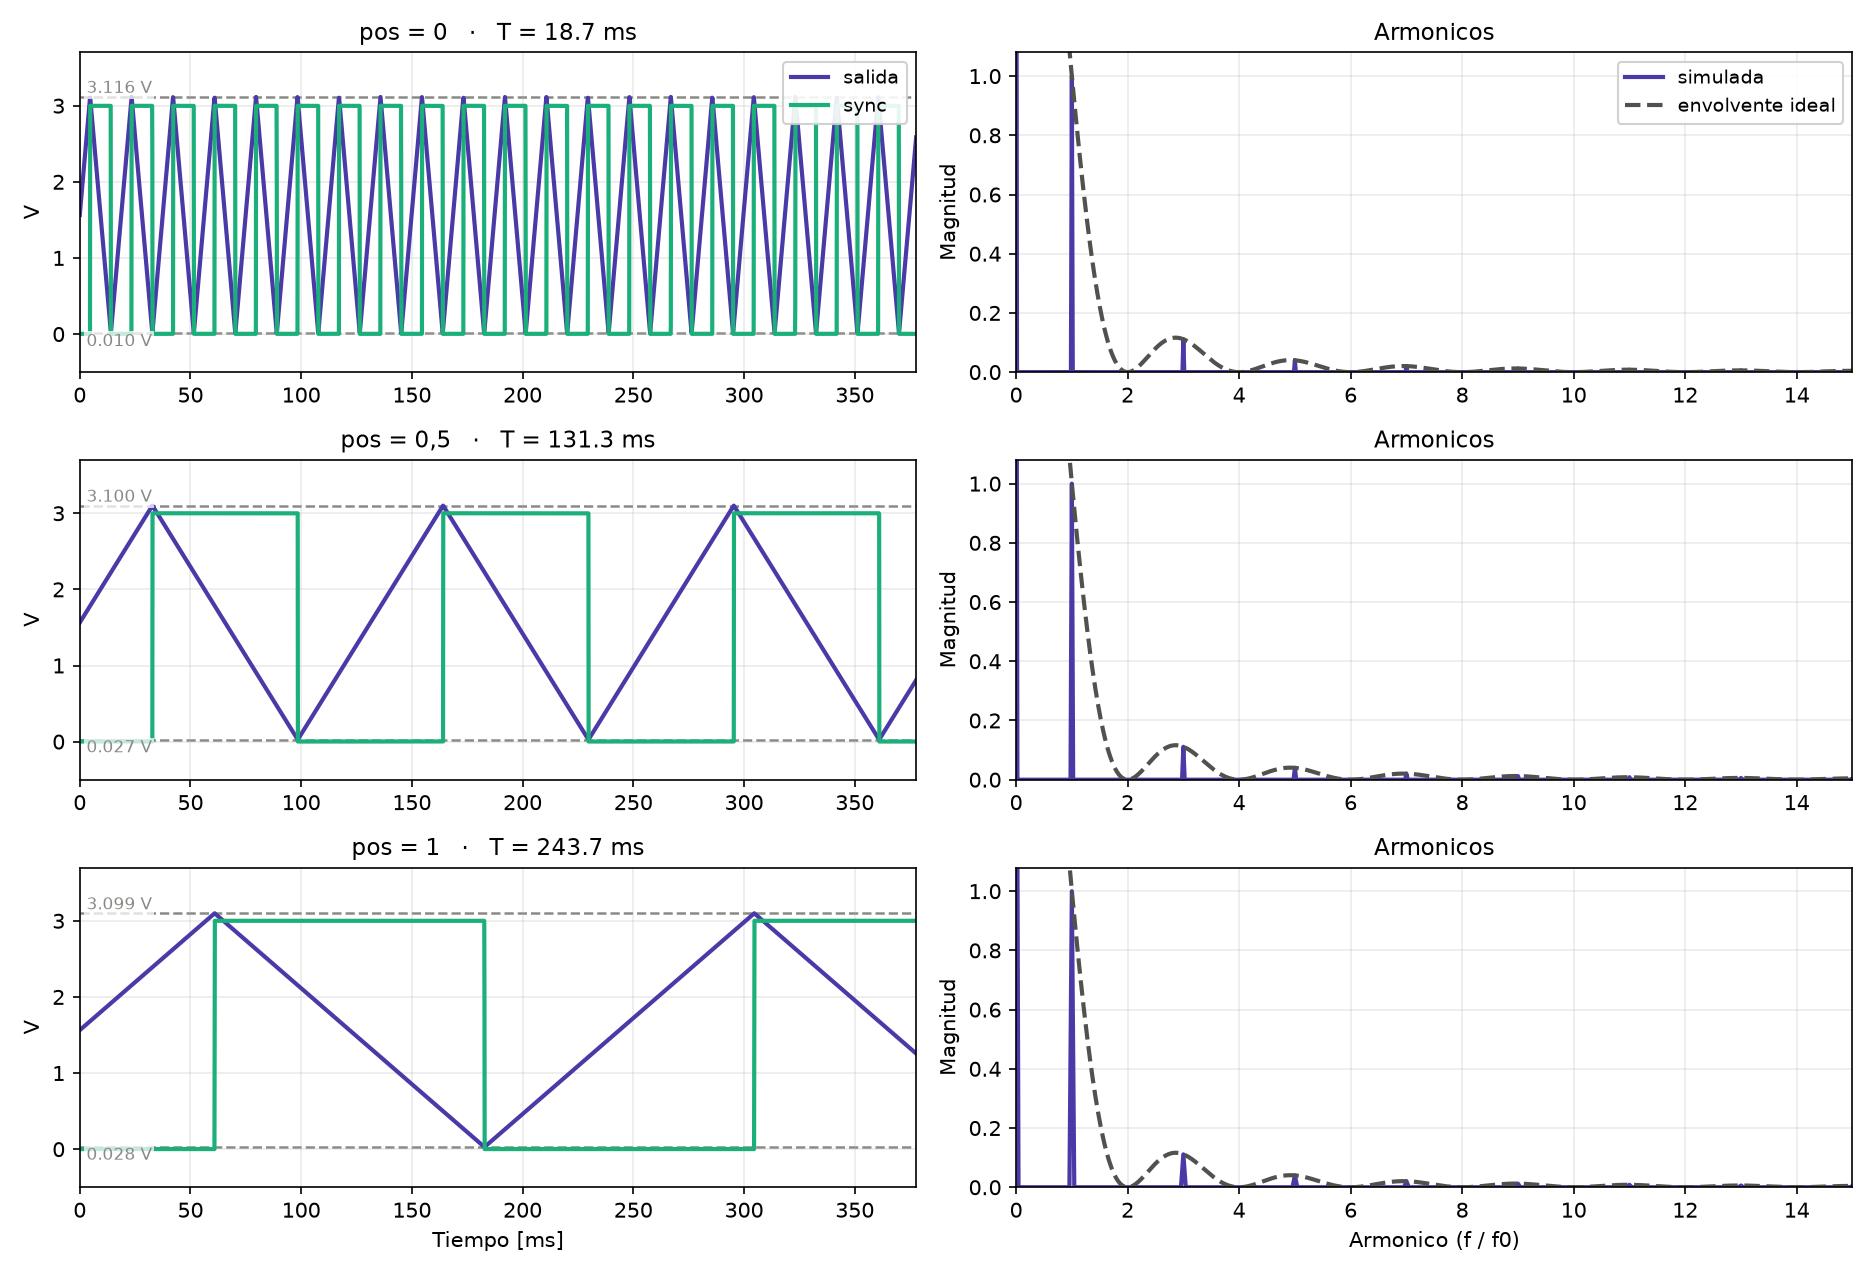
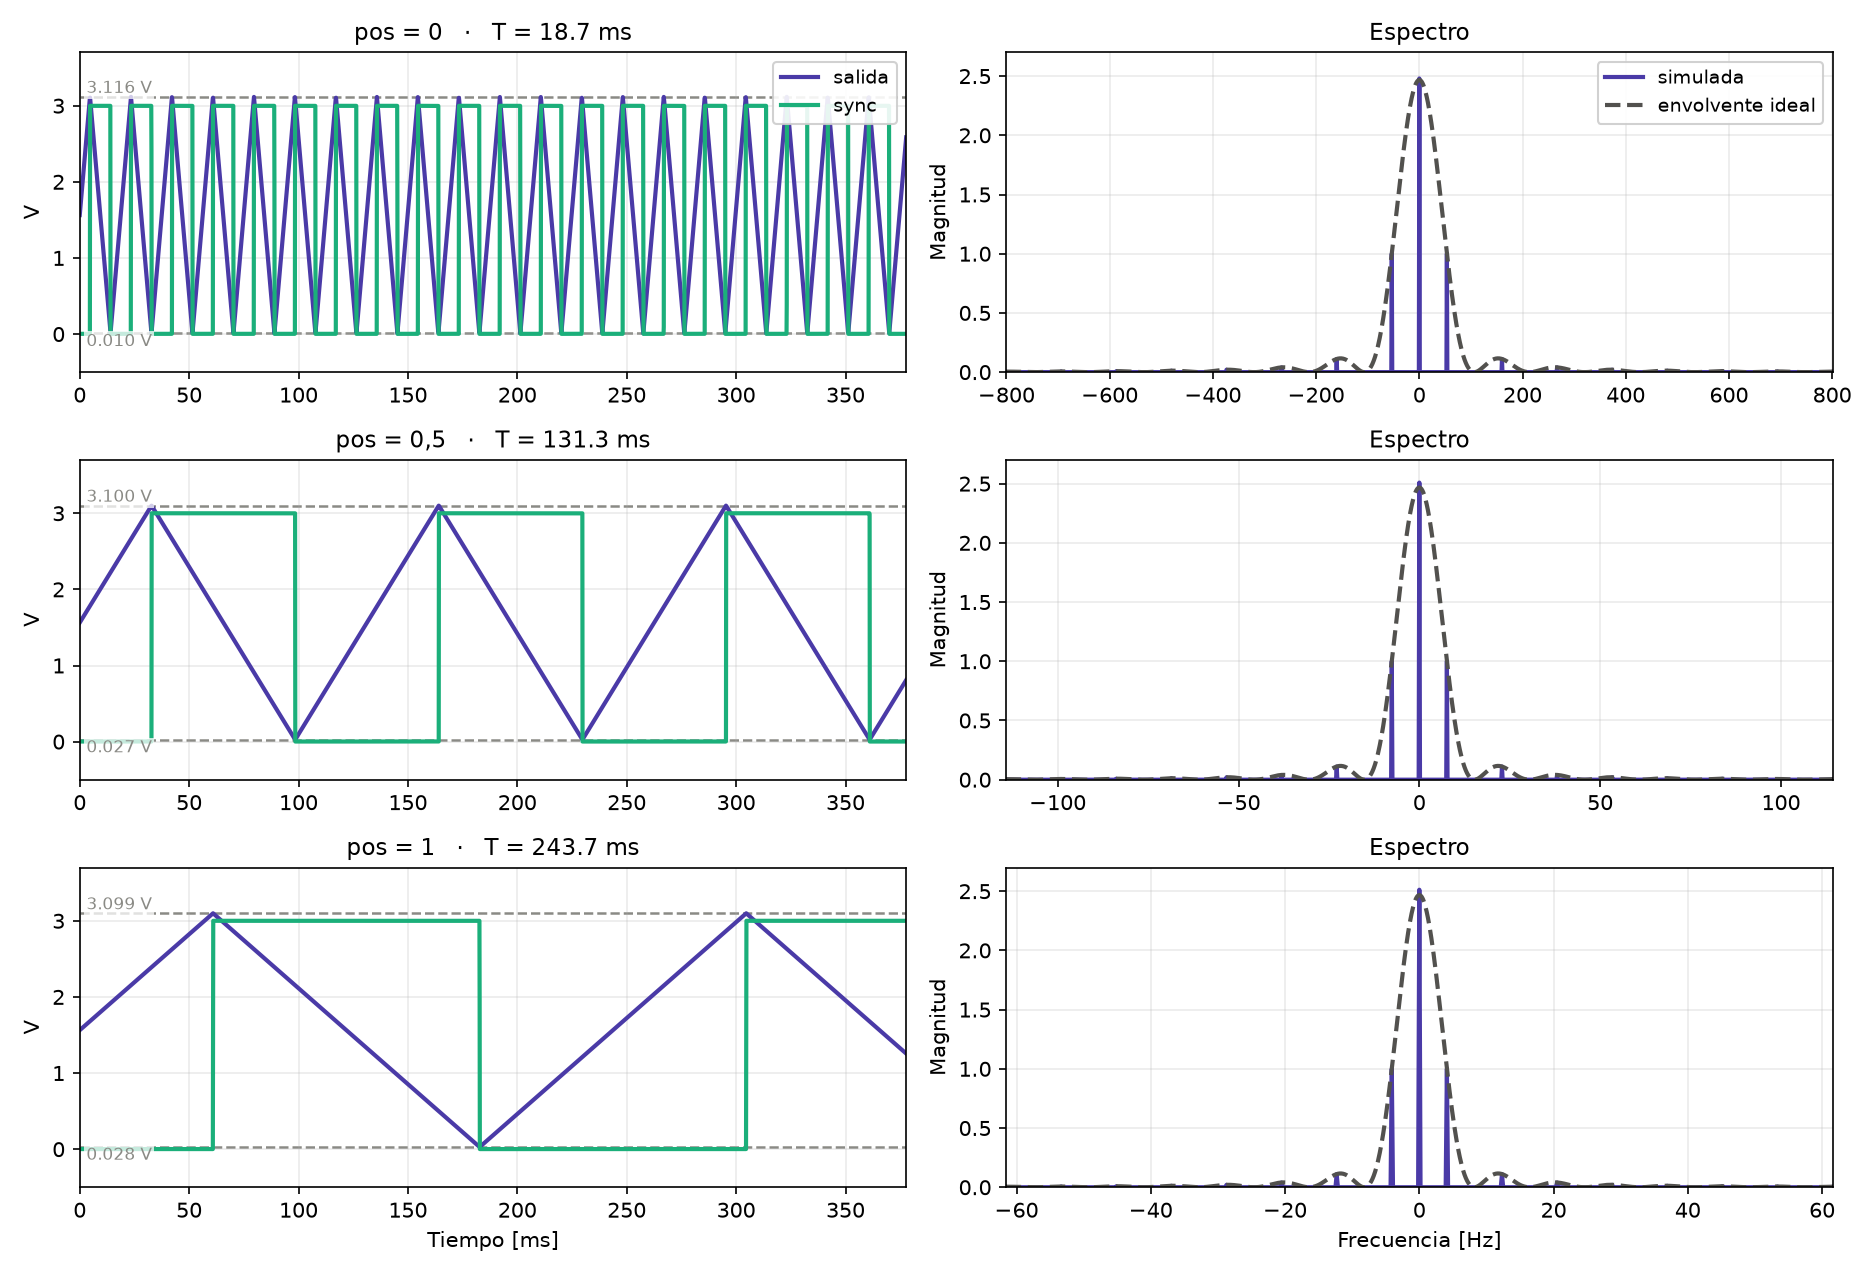
GPRv2: el espectro de la triangular, en hertz y de dos lados
El eje iba en armonicos de f0, que servia para comparar las tres filas
entre si pero obligaba a traducir mentalmente a frecuencia. Ahora va en
hertz y llega al armonico 15 de cada fila, asi que la escala cambia de
una fila a la otra (los periodos difieren 13 veces) pero los numeros son
los de verdad.

Y se dibuja de dos lados: la mitad negativa es la imagen de la positiva,
asi la continua queda como una sola delta en el cero, en el medio del
grafico, que es donde se la ve. Cada armonico ya valia A/2 en este lado,
que es lo que le toca a cada mitad del par, asi que no hay que reescalar
nada: la continua da 2,5 veces la fundamental y el tercer armonico 0,111,
igual que antes.

Ademas el titulo de la columna derecha pasa de "Armonicos" a "Espectro",
y los de la izquierda muestran el periodo en vez de la frecuencia.

diff --git a/GPRv2/docs/PWM/graficar_triangular2.py b/GPRv2/docs/PWM/graficar_triangular2.py
@@ -4,14 +4,15 @@ GPRv2 - Figura del generador de triangular (triangular2.asc)
 
 Lee triangular2.raw (el .step del pote, 5 posiciones) y arma una figura de
 3x2: una fila por posicion del pote (0, 0,5 y 1). A la izquierda la salida de
-0 a 3 V con el sync, en milisegundos; a la derecha su espectro (las rayas de
-los armonicos) contra la envolvente de una triangular ideal de la misma
-amplitud.
+0 a 3 V con el sync, en milisegundos; a la derecha su espectro de dos lados
+(las rayas de los armonicos, con la continua en el cero) contra la envolvente
+de una triangular ideal de la misma amplitud.
 
 La ventana de tiempo es la misma en las tres filas y sale del periodo mas
 largo, asi que en la fila mas lenta entra poco mas de un periodo y en la mas
-rapida entran varios. El eje de frecuencia va en armonicos porque los
-periodos de las tres filas difieren 13 veces.
+rapida entran varios. El eje de frecuencia va en hertz y llega hasta el
+armonico 15 de cada fila, asi que su escala cambia de una fila a la otra:
+los periodos difieren 13 veces.
 
 Uso
 ---
@@ -41,7 +42,8 @@ ARRANQUE_S     = 0.35    # lo que se descarta del principio: el oscilador arranc
 MUESTRAS_POR_T = 4096    # remuestreo uniforme, por periodo
 RELLENO_IDEAL  = 64      # ceros alrededor del triangulo ideal, para que su
                          # transformada salga continua y no en rayas
-ARMONICOS      = 15      # hasta donde llega el eje de frecuencia
+ARMONICOS      = 15      # hasta donde llega el eje de frecuencia, en armonicos
+TECHO_MAG      = 2.7     # el eje de magnitud: la continua llega a ~2,5
 
 # Paleta validada: violeta y aqua se separan bien incluso simulando daltonismo
 # (dE OKLab 37 con protanopia y 31 con deuteranopia, contra un objetivo de 8).
@@ -154,6 +156,16 @@ def norm(X, i_fundamental):
     return X / X[i_fundamental]
 
 
+def espejar(f, X):
+    """Espectro de dos lados: la mitad negativa es la imagen de la positiva.
+
+    Asi la continua queda como una sola delta en el cero, en el medio, que es
+    donde se la ve. Cada armonico ya vale A/2 en este lado, que es lo que le
+    toca a cada mitad del par.
+    """
+    return np.r_[-f[:0:-1], f], np.r_[X[:0:-1], X]
+
+
 def main():
     if not os.path.exists(RAW):
         sys.exit(f"falta {RAW}: simula triangular2.asc primero")
@@ -216,19 +228,22 @@ def main():
         arm, X = espectro(t, sal, T, n_per, MUESTRAS_POR_T, t_fin=fin)
         armi, Xi = envolvente_ideal(MUESTRAS_POR_T, RELLENO_IDEAL)
 
+        f0 = 1 / T
+        f_sim,   Y_sim   = espejar(arm * f0, norm(X, n_per))
+        f_ideal, Y_ideal = espejar(armi * f0, norm(Xi, RELLENO_IDEAL))
+
         ax = ejes[fila, 1]
-        ax.plot(arm, norm(X, n_per), color=C_SALIDA, lw=2, label="simulada")
-        ax.plot(armi, norm(Xi, RELLENO_IDEAL), color=C_IDEAL, lw=2, ls="--",
-                label="envolvente ideal")
-        ax.set_xlim(0, ARMONICOS)
-        ax.set_ylim(0, 1.08)
+        ax.plot(f_sim, Y_sim, color=C_SALIDA, lw=2, label="simulada")
+        ax.plot(f_ideal, Y_ideal, color=C_IDEAL, lw=2, ls="--", label="envolvente ideal")
+        ax.set_xlim(-ARMONICOS * f0, ARMONICOS * f0)
+        ax.set_ylim(0, TECHO_MAG)
         ax.set_ylabel("Magnitud")
         ax.grid(alpha=0.25)
-        ax.set_title("Armonicos", fontsize=11)
+        ax.set_title("Espectro", fontsize=11)
         if fila == 0:
             ax.legend(loc="upper right", fontsize=9, framealpha=0.9)
         if fila == 2:
-            ax.set_xlabel("Armonico (f / f0)")
+            ax.set_xlabel("Frecuencia [Hz]")
 
     fig.tight_layout()
     fig.savefig(SALIDA, dpi=150)
